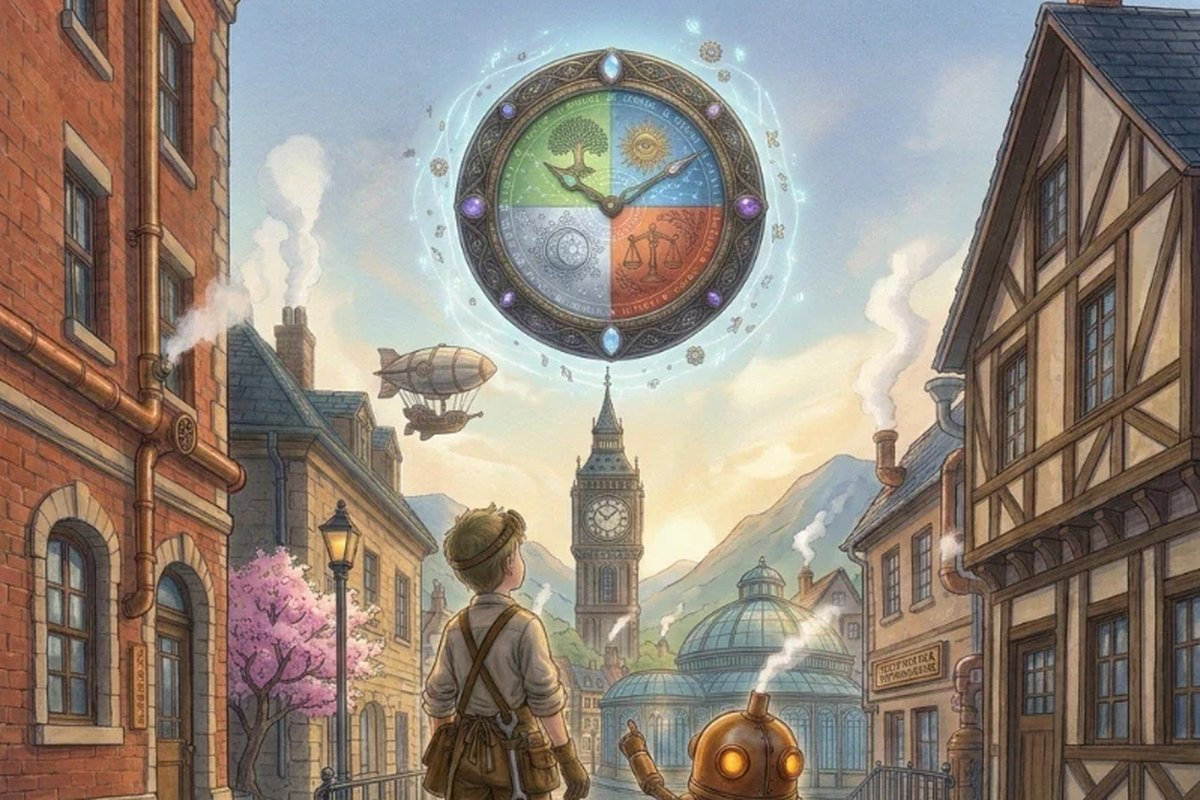
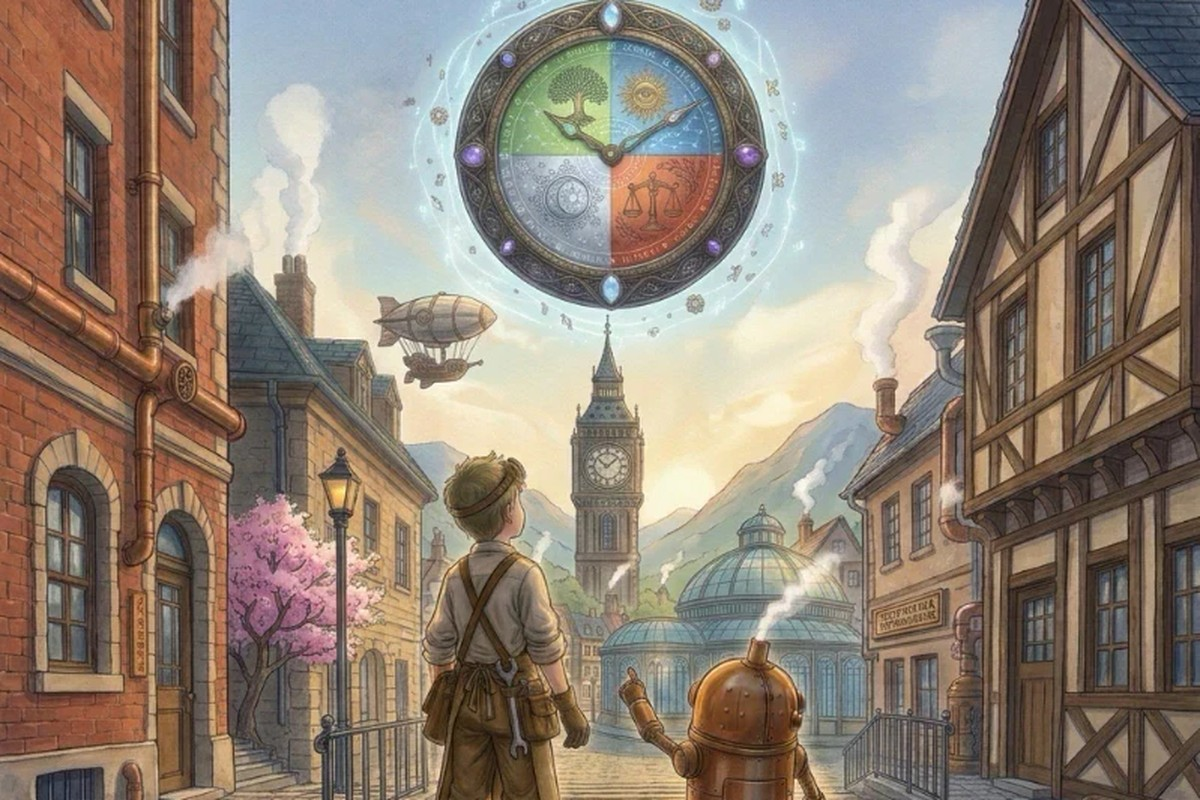
蒸気の街の技工師：キーアートを正式の絵（ロボットの後ろの目を消した版）に差しかえ

diff --git a/index.html b/index.html
@@ -400,7 +400,7 @@ footer{border-top:1px solid var(--line);padding-block:38px;color:var(--faint)}
 
       <!-- 蒸気の街の技工師（テキストRPG：別プロジェクト。紹介ページ https://steam-engineer.onrender.com/intro.html への案内のみ。2026-10-25 追加） -->
       <article class="work reveal" id="steam" style="--c:var(--steam)">
-        <div class="w-art"><img src="assets/steam.jpg" alt="蒸気の街の技工師 のキーアート" loading="lazy" width="1200" height="800"></div>
+        <div class="w-art"><img src="assets/steam.jpg?v=2" alt="蒸気の街の技工師 のキーアート" loading="lazy" width="1200" height="800"></div>
         <div class="w-body">
           <span class="w-no">04</span>
           <div class="w-tags"><span class="badge" style="--c:var(--steam)" data-en="IN DEV">開発中</span><span class="genre" data-en="Picture-free Text RPG">絵のない、文章で遊ぶテキストRPG</span></div>
